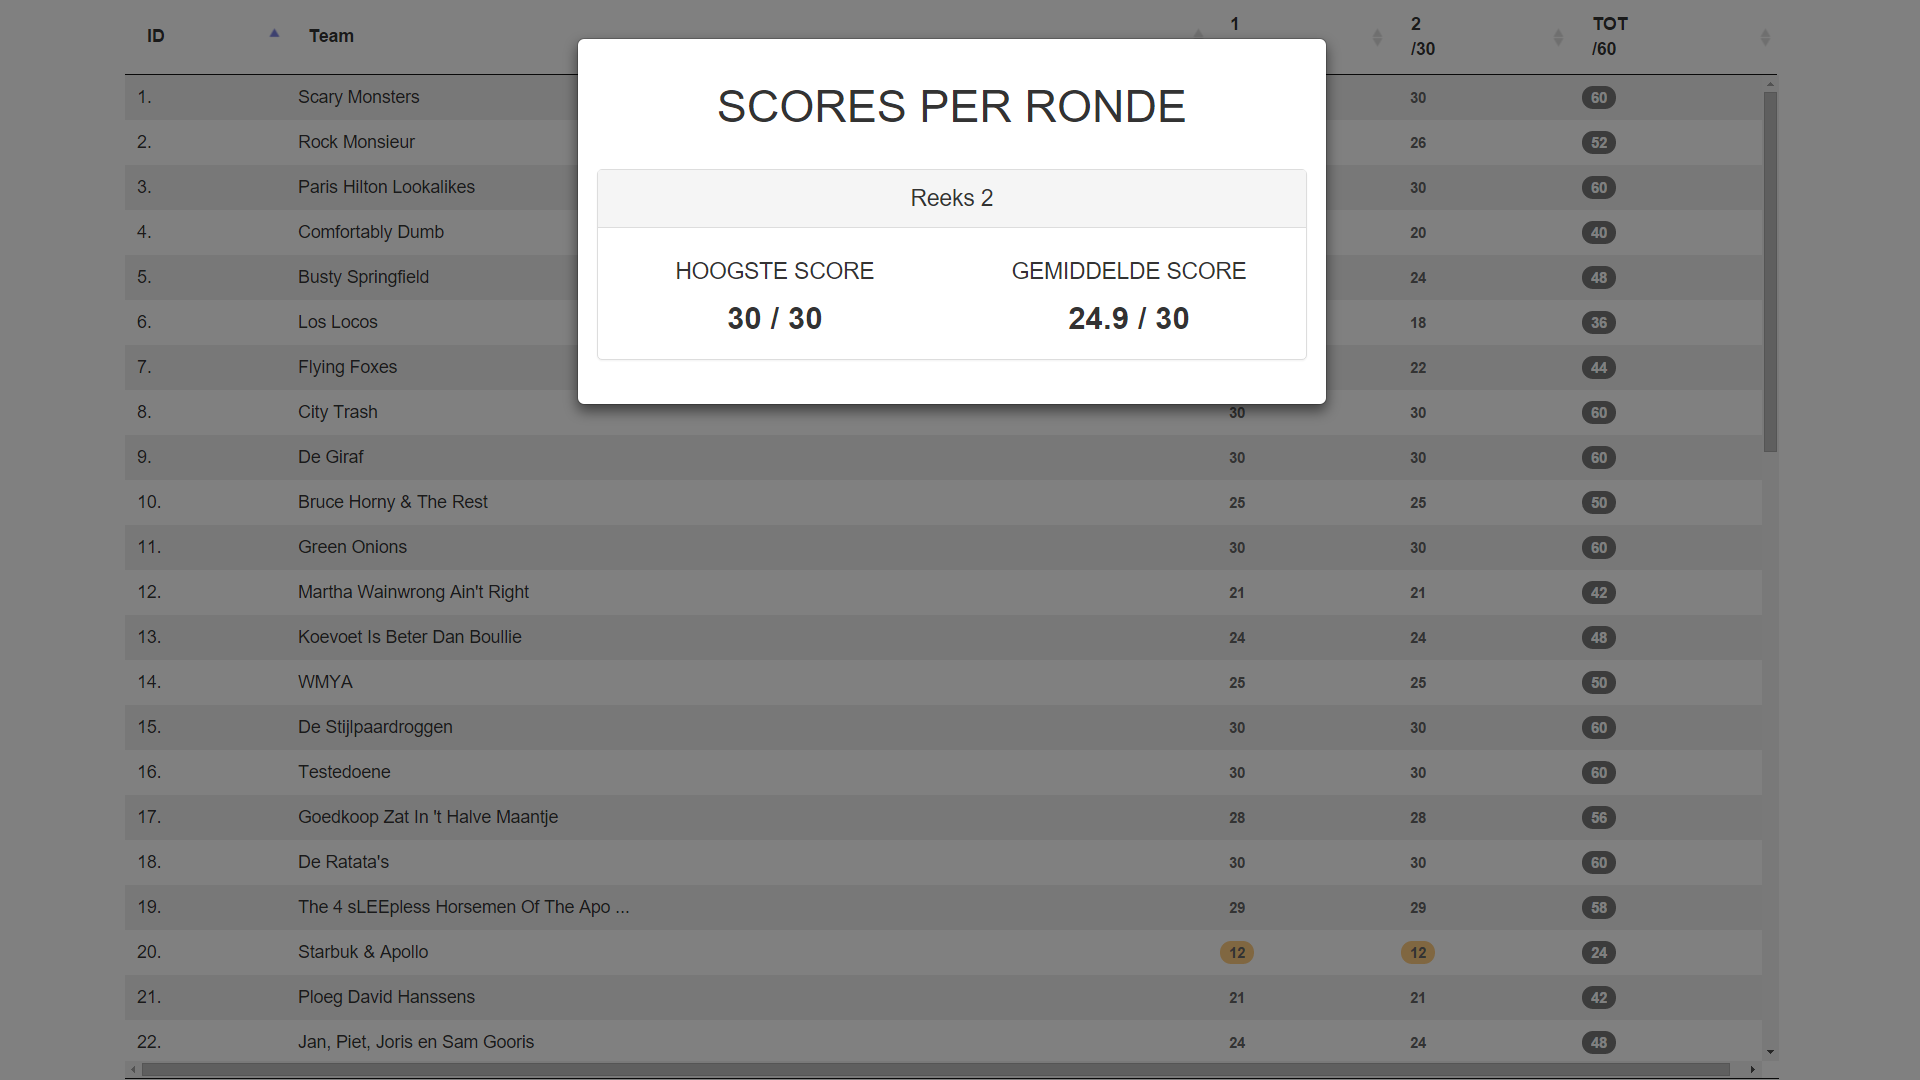
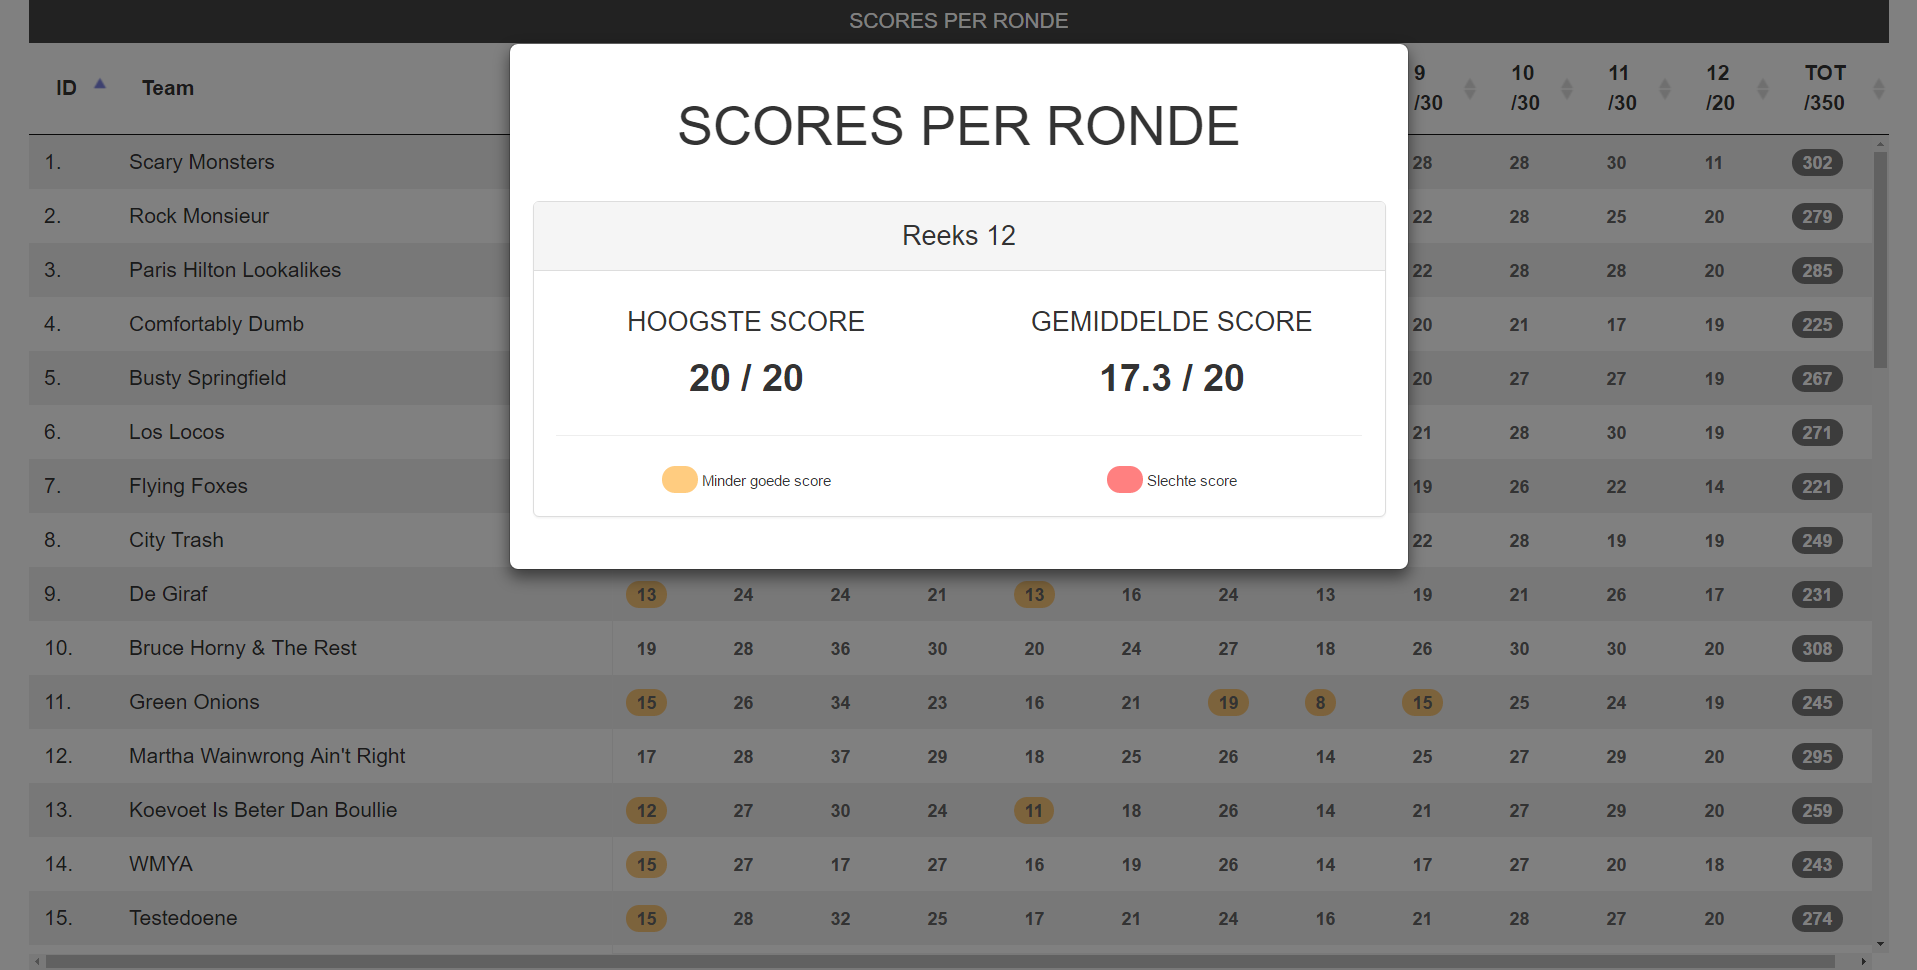
Fixes+ added header + added type 2 filter

diff --git a/js/main.js b/js/main.js
@@ -15,7 +15,7 @@ app.popquiz = (function () {
         lastroundtotal = 0,
         scrolling = false,
         scrollDown = true,
-        filter = 0; // 0 = all, 1 = circuit, 2 = gelegenheid
+        teamtype = 0; // 0 = all, 1 = circuit, 2 = gelegenheid
 
 	function privateMethod() {
 		// ...
@@ -58,7 +58,7 @@ app.popquiz = (function () {
 	            // read data
 		    	if(i>1){
 
-	                var team = {scores:[], id:(i-1), type: 0};
+	                var team = {scores:[], id:(i-1), type: 2};
 	                var totalscore = 0;
 
 		    		for(var r=1;r<entries.length;r++)
@@ -99,7 +99,7 @@ app.popquiz = (function () {
 		$('#poster').fadeOut(renderInterface);
 	}
 
-	function renderInterface(teamtype){
+	function renderInterface(){
 		var filteredteams = 0;
 
 		// show main wrapper
@@ -170,7 +170,7 @@ app.popquiz = (function () {
 
 			for(var s=0;s<rankingPerRound[t].length;s++){
 
-				if(typeof teamtype == 'undefined' || teams[rankingPerRound[t][s].id-1].type == teamtype)
+				if(teamtype == 0 || teams[rankingPerRound[t][s].id-1].type == teamtype)
 				{
 					if(t==lastround)
 					{
@@ -192,12 +192,10 @@ app.popquiz = (function () {
 			}
 			
 		}
-		console.info(teamtype);
-		//console.info(teams);
 
     	// render ranking
-		renderRanking(lastround, teamtype);
-		renderList(lastround, teamtype);
+		renderRanking(lastround);
+		renderList(lastround);
 
 		showTable(false);
 
@@ -214,10 +212,21 @@ app.popquiz = (function () {
 		$('.lastroundhighest').html(lastroundhighest);
 		$('.lastroundaverage').html(lastroundaverage);
 		$('.lastroundmax').html(rounds[lastround].max);
+
+		var ftext = "";
+		if(teamtype == 1)
+		{
+			ftext = " - Circuitploegen";
+		}
+		if(teamtype == 2)
+		{
+			ftext = " - Gelegenheidsploegen";
+		}
+		$('.filtertext').html(ftext);
 	}
 
 
-	function renderList(round, teamtype){
+	function renderList(round){
 		// render list
 		var $listbody = $('#listbody'),
 			$listhead = $('#listhead');
@@ -243,10 +252,10 @@ app.popquiz = (function () {
 		// Teams
 		$.each(teams, function(i,team){
 
-			if(typeof teamtype == 'undefined' || teamtype == team.type)
+			if(teamtype == 0 || teamtype == team.type)
 			{
 				// Team name
-				var mytable ='<tr><td>' + team.id + '.</td><td>'+team.type + ( team.name.length>38?HTMLEncode(team.name.substring(0,35)) + ' ...':HTMLEncode(team.name)) + '</td>';
+				var mytable ='<tr><td>' + team.id + '.</td><td>' + ( team.name.length>38?HTMLEncode(team.name.substring(0,35)) + ' ...':HTMLEncode(team.name)) + '</td>';
 
 				// Team scores
 				$.each(team.scores,function(x,score){
@@ -266,7 +275,7 @@ app.popquiz = (function () {
 	}
 
 
-	function renderRanking(round, teamtype){
+	function renderRanking(round){
 		// render ranking
 		var $rankinghead = $('#rankinghead'),
 			$rankingbody = $('#rankingbody'),
@@ -274,7 +283,7 @@ app.popquiz = (function () {
 			top3lastround = "",
 			top3lstcnt = 1,
 			top3prev = 0,
-			top3rnk = 1;
+			top3rnk = 0;
 
 		$rankinghead.empty();
 		$rankingbody.empty();
@@ -286,18 +295,17 @@ app.popquiz = (function () {
 
 		$.each(rankingPerRound[round], function(t,tms){
 
-			if(typeof teamtype == 'undefined' || teamtype == teams[tms.id-1].type)
+			if(teamtype == 0 || teamtype == teams[tms.id-1].type)
 			{
+
 				if(top3lstcnt<=3 || top3prev == tms.score)
 				{
+					if(top3prev!=tms.score)
+					{
+						top3rnk = top3lstcnt;
+					}
 					top3lastround += top3rnk + ". " + teams[tms.id-1].name + " ("+tms.score+")<br/>";
 					top3lstcnt++;
-
-					if(top3prev!=tms.score && top3rnk>1)
-					{
-						top3rnk++;
-					}
-
 					top3prev = tms.score;
 				}
 			}
@@ -348,7 +356,7 @@ app.popquiz = (function () {
 
 			});
 
-			if(typeof teamtype == 'undefined' || teamtype == teams[rank.id-1].type)
+			if(teamtype == 0 || teamtype == teams[rank.id-1].type)
 			{
 				specialcount++;
 				var defrank = rank.rank;
@@ -467,7 +475,7 @@ app.popquiz = (function () {
 	function showList(){
 
 		$('.modal').modal('hide');
-		$('#listmodal').modal('show');
+		setTimeout(function(){$('#listmodal').modal('show');}, 510);
 
 		var $list = $('#list'),
 			$rank = $('#ranking');
@@ -483,7 +491,7 @@ app.popquiz = (function () {
 		var docheight = $( window ).height();
 		
 		listtable = $('#list table').DataTable({
-	        "scrollY":   docheight - 61,
+	        "scrollY":   docheight - 92,
 	        "scrollX": "100%",
 	        "scrollCollapse": true,
 	        "paging":         false,
@@ -493,12 +501,27 @@ app.popquiz = (function () {
 	    var fx = new $.fn.dataTable.FixedColumns( listtable, {
         	leftColumns: 2
     	} );
+
+		$('.head').hide();
+		if(teamtype == 1)
+		{
+			$('.list3').show();
+		}
+		else if(teamtype == 2)
+		{
+			$('.list2').show();
+		}
+		else{
+			$('.list1').show();
+		}
+
 	}
 
 	function showRanking(){
 
 		$('.modal').modal('hide');
-		$('#rankingmodal').modal('show');
+		setTimeout(function(){$('#rankingmodal').modal('show');}, 510);
+		
 
 		var $list = $('#list'),
 			$rank = $('#ranking'),
@@ -514,13 +537,25 @@ app.popquiz = (function () {
 		}
 		
 		rankingtable = $('#ranking table').DataTable({
-	        "scrollY":       docheight - 41,
+	        "scrollY":       docheight - 72,
 	        "scrollCollapse": true,
 	        "paging":         false,
 	        bFilter: false, bInfo: false
 	        
 	    });
-/*
+
+		$('.head').hide();
+		if(teamtype == 1)
+		{
+			$('.ranking3').show();
+		}
+		else if(teamtype == 2)
+		{
+			$('.ranking2').show();
+		}
+		else{
+			$('.ranking1').show();
+		}/*
 	   	var fx = new $.fn.dataTable.FixedColumns( rankingtable, {
         	leftColumns: 2
     	} );*/
@@ -645,12 +680,17 @@ app.popquiz = (function () {
 	}
 
 	function doFilter(){
-		if(filter == 0){
-			filter = 1;
-			renderInterface(1);
+		if(teamtype == 0){
+			teamtype = 1;
+			renderInterface();
+		}
+		else if(teamtype == 1)
+		{
+			teamtype = 2;
+			renderInterface();
 		}
 		else{
-			filter = 0;
+			teamtype = 0;
 			renderInterface();
 		}
 		
@@ -697,7 +737,7 @@ app.popquiz = (function () {
 	}
 
 	function autoScroll(list){
-		var duration = 20000;
+		var duration = 30000;
 		if(scrollDown){
 			$(list + ' table').parent().animate({scrollTop: 2500}, { "duration": duration, "easing": "linear", complete: function(){
 				autoScroll(list);
@@ -705,7 +745,7 @@ app.popquiz = (function () {
 			scrollDown = false;
 		}
 		else{
-			$(list + ' table').parent().animate({scrollTop: 0}, { "duration": duration, "easing": "linear", complete: function(){
+			$(list + ' table').parent().animate({scrollTop: -200}, { "duration": duration, "easing": "linear", complete: function(){
 				autoScroll(list);
 			}});
 			scrollDown = true;

diff --git a/index.html b/index.html
@@ -72,9 +72,13 @@
           </div>
         </div>-->
 
-        <div id="filter">
-          <div class="filter filter1">Circuitploegen</div>
-          <div class="filter filter2">Gelegenheidsploegen</div>
+        <div id="resheader">
+          <div class="head list1">SCORES PER RONDE</div>
+          <div class="head list2">SCORES PER RONDE - Gelegenheidsploegen</div>
+          <div class="head list3">SCORES PER RONDE - Circuitploegen</div>
+          <div class="head ranking1">DE STAND NA <span class="lastround"></span></div>
+          <div class="head ranking2">DE STAND NA <span class="lastround"></span> - Gelegenheidsploegen</div>
+          <div class="head ranking3">DE STAND NA <span class="lastround"></span> - Circuitploegen</div>
         </div>
 
         <div id="list"></div>
@@ -93,11 +97,16 @@
           <div class="modal-body">
             <center><h1>SCORES PER RONDE</h1></center><br/>
             <div class="panel panel-default" style="text-align:center;">
-              <div class="panel-heading"><span class="lastround"></span></div>
+              <div class="panel-heading"><span class="lastround"></span><span class="filtertext"></span></div>
               <div class="panel-body">
                 <div class="row">
                   <div class="col-xs-6"><h4>HOOGSTE SCORE</h4><div class="highscore"><span class="lastroundhighest"></span> / <span class="lastroundmax"></span></div></div>
                   <div class="col-xs-6"><h4>GEMIDDELDE SCORE</h4><div class="highscore"><span class="lastroundaverage"></span> / <span class="lastroundmax"></span></div></div>
+                </div>
+                <hr/>
+                <div class="row legenda">
+                  <div class="col-xs-6"><span class="badge orange">&nbsp;&nbsp;&nbsp;</span> Minder goede score</div>
+                  <div class="col-xs-6"><span class="badge red">&nbsp;&nbsp;&nbsp;</span> Slechte score</div>
                 </div>
               </div>
             </div>
@@ -115,11 +124,16 @@
           <div class="modal-body">
             <center><h1>DE STAND NA <span class="lastround"></span></h1></center>
             <div class="panel panel-default">
-              <div class="panel-heading"><center><span class="lastround"></span></center></div>
+              <div class="panel-heading"><center><span class="lastround"></span><span class="filtertext"></span></center></div>
               <div class="panel-body">
                 <div class="row">
                   <div class="col-xs-6"><h4>TOP 3 <span class="lastround"></span></h4><div class="top3lastround"></div></div>
                   <div class="col-xs-6"><h4>TOP 3 TOTAAL</h4><div class="top3total"></div></div>
+                </div>
+                <hr/>
+                <div class="legenda">
+                  <div>+ = Omhoog in de ranking tov vorige reeks</div>
+                  <div>- = Omlaag in de ranking tov vorige reeks</div>
                 </div>
               </div>
             </div>           

diff --git a/css/style.css b/css/style.css
@@ -1,9 +1,16 @@
 .topmenu{
-
 	line-height: 40px;
 	font-size: 20px;
 	color:#fff;
 	margin-right:0px;
+}
+
+#resheader{
+	height:30px;
+	background:#444;
+	text-align:center;
+	line-height:30px;
+	color:#fff;
 }
 
 .topmenu li{padding:5px;cursor:pointer;}
@@ -15,7 +22,6 @@
 }
 
 #poster{
-
 	width:100%;
 	height:100%;
 	background: url(../images/popquiz2016.png);
@@ -87,4 +93,8 @@ html{height:100%;margin:0;padding:0;}
 
 .filter{
 	display:none;
+}
+
+.legenda{
+	font-size:10px;
 }

diff --git a/README.md b/README.md
@@ -7,13 +7,16 @@ Shortcuts:
 * Q: Show toolbar
 * S: Toggle table views
 * D: Toggle auto scroll
+* F: Toggle filter
 
 
 De uitslagen voor elk team worden per ronde ingevuld in het popquiz***.csv bestand (voorbeeld kan je vinden in de data folder), wanneer alles is ingevuld kan je de webpagina openen (index.html)
 
-Via de 'q' toets komt een toolbar te voorschijn waar je via het icoontje helemaal rechts een bestand mee kan openen, éénmaal het bestand is ingeladen komen de resultaten te voorschijn.
+Via de 'q' toets komt een toolbar te voorschijn waar je via het icoontje helemaal rechts een bestand mee kan openen (of je kan gewoon op spatie drukken), éénmaal het bestand is ingeladen komen de resultaten te voorschijn.
 
 In het eerste view kan je de scores per ronde terug vinden voor elk team, gerangschikt op teamnummer. Met de 's' toets ga je naar het tweede view waarin we de rangschikking na de laatst ingevulde ronde terugvinden.
+
+Met de 'f' toets kan je toggelen tussen 'alle resultaten', 'circuitploegen' en 'gelegenheidsploegen' (aangegeven in het csv bestand in het 'type' veld, 1 = circuitploeg) 
 
 Home page:
 
@@ -31,9 +34,13 @@ View 1:
 
 ![alt tag](https://github.com/bs133140/Popquiz/blob/master/images/screenshots/ss4.png)
 
+![alt tag](https://github.com/bs133140/Popquiz/blob/master/images/screenshots/ss7.png)
+
 
 View 2:
 
 ![alt tag](https://github.com/bs133140/Popquiz/blob/master/images/screenshots/ss5.png)
 
 ![alt tag](https://github.com/bs133140/Popquiz/blob/master/images/screenshots/ss6.png)
+
+![alt tag](https://github.com/bs133140/Popquiz/blob/master/images/screenshots/ss8.png)
